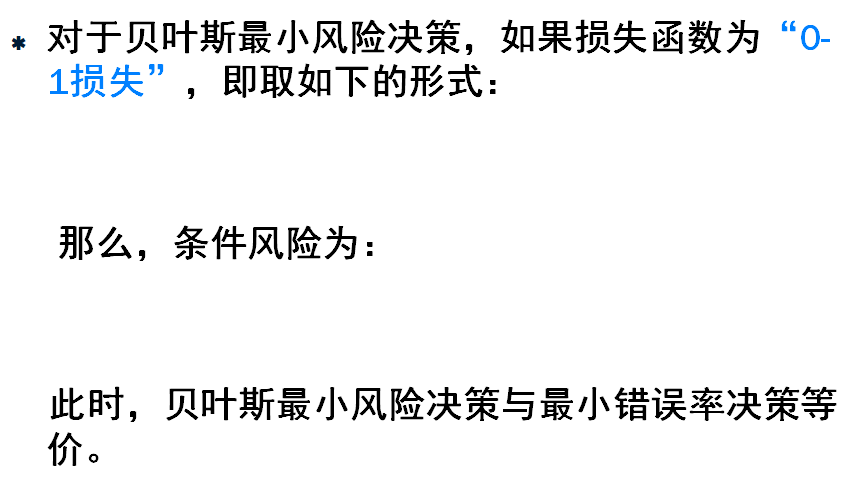
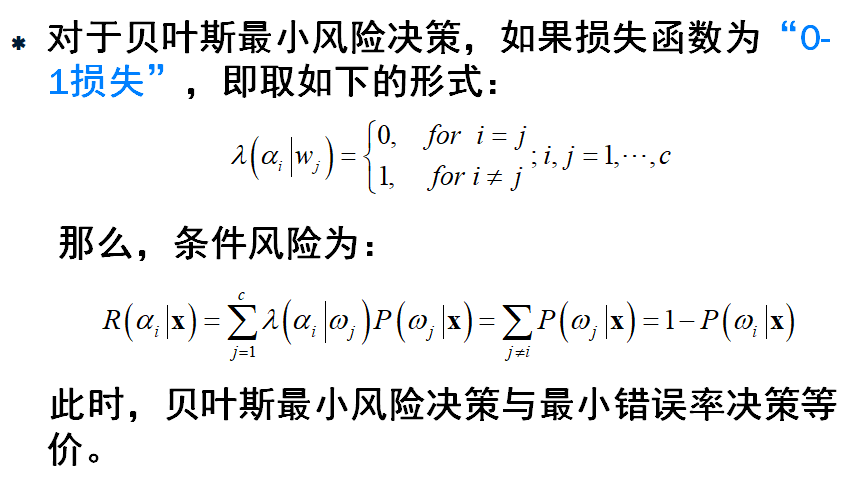
增加正太分布的判别方面笔记

diff --git a/机器学习笔记/模式识别课堂笔记.md b/机器学习笔记/模式识别课堂笔记.md
@@ -139,9 +139,9 @@
   - 根据先验概率和类条件概率计算出后验概率
   - 利用后验概率和损失矩阵计算采取每种决策的条件风险
   - 比较各个条件风险的值，条件风险最小的决策即为最小风险贝叶斯决策
-- ![1531646979870](picture/模式识别课堂笔记-概率函数应用-贝叶斯决策理论-最小风险准则4.png)
+- ![1531657652099](picture/模式识别课堂笔记-概率函数应用-贝叶斯决策理论-最小风险准则4.png)
 
-##### Neyman-Pearson准则
+##### Neyman-Pearson准则-不考
 
 - 最小错误率准则 
   - 后验概率最大化，理论上错误率最小 
@@ -157,19 +157,66 @@
 	- 用lagrange乘子法求条件极值
 - 
 
-##### 最小最大决策准则
+##### 最小最大决策准则-不考
 - Neyman-Pearson准则假定先验概率是一个确定的值，此时判定结果会受到先验概率的影响
 - 实际中，类先验概率 $P(w_i) $往往不能精确知道或在分析过程中是变动的，从而导致判决域不是最佳的。所以应考虑如何解决在$ P(w_i)$ 不确知或变动的情况下使期望风险变小的问题
 - 最小最大决策准则：在最差的条件下争取最好的结果，使最大风险最小！
 
 #### 分类器，判别函数，决策面
 
+- 分类器最常用的表述方式为判别函数
+- $g(x),i=1..c$：每个类别对应一个判别函数
+- 基于判别函数的判决
+  - 如果：$g_i(x)>g_j(x),那么模式为w_j$ ??? 是$w_j$吗？
+  - ![1531658418452](picture/模式识别课堂笔记-概率函数应用-分类器，判别函数1.png)
+
+##### 基于最小误差概率的贝叶斯分类器
+- ![1531658521298](picture/模式识别课堂笔记-概率函数应用-分类器，判别函数2.png)
+- ![1531658568044](picture/模式识别课堂笔记-概率函数应用-分类器，判别函数，决策面1.png)
+- 判决区域
+  - 判决区域 $R_i$ 是特征空间中的一个子空间，判决规则将所有落入$ R_i$ 的样本$x$分类为类别$w_i$
+- 决策面（Decision Surface）
+  - 判决边界
+  - 决策面是特征空间划分判决区域的超平面
+  - 在决策面上，通常有两类或多类的判别函数值相等
+  - ![1531658981578](picture/模式识别课堂笔记-概率函数应用-分类器，判别函数，决策面2.png)
+  - ![1531659438349](picture/模式识别课堂笔记-概率函数应用-分类器，判别函数，决策面3.png) 
+
 #### 正态分布的判别函数 
 
-#### Bayesian网络
+- 正态分布的重要性
+  - 物理上的合理性：较符合很多实际情况，观测值通常是很多种因素共同作用的结果，根据中心极限定理，服从正态分布
+  - 数学上比较简单：参数个数少
+- 单变量正态分布
+  - ![1531659795573](picture/模式识别课堂笔记-概率函数应用-正太分布的判别函数1.png)
+- 多元正态分布
+
+  - ![1531659915611](picture/模式识别课堂笔记-概率函数应用-正太分布的判别函数3.png)
+  - ![1531659944555](picture/模式识别课堂笔记-概率函数应用-正太分布的判别函数4.png)
+  - ![1531659994763](picture/模式识别课堂笔记-概率函数应用-正太分布的判别函数5.png)
+  - ![1531659850084](picture/模式识别课堂笔记-概率函数应用-正太分布的判别函数2.png)
+  - ![1531660063371](picture/模式识别课堂笔记-概率函数应用-正太分布的判别函数6.png)
+  - ![1531660093004](picture/模式识别课堂笔记-概率函数应用-正太分布的判别函数7.png)
+
+##### 正态分布公式
+
+- ![1531660314826](picture/模式识别课堂笔记-概率函数应用-正太分布的判别函数8.png)
+- ![1531660384362](picture/模式识别课堂笔记-概率函数应用-正太分布的判别函数9.png)
+
+
+#### Bayesian网络-不考
 
 ### 概率密度函数的估计
-
+- 参数估计
+  - 最大似然参数估计
+  - 贝叶斯估计
+- 非参数估计
+  - Parzen窗估计
+  - KNN近邻估计
+- 问题的引出
+- ![1531660802412](C:\Users\Magneto_Wang\Documents\GitHub\机器学习个人笔记\机器学习笔记\picture\模式识别课堂笔记-概率函数应用-概率密度函数的估计1.png)
+- ![1531660856327](C:\Users\Magneto_Wang\Documents\GitHub\机器学习个人笔记\机器学习笔记\picture\模式识别课堂笔记-概率函数应用-概率密度函数的估计2.png)
+- ![1531660887019](C:\Users\Magneto_Wang\Documents\GitHub\机器学习个人笔记\机器学习笔记\picture\模式识别课堂笔记-概率函数应用-概率密度函数的估计3.png)
 
 ### 线性分类器
 
